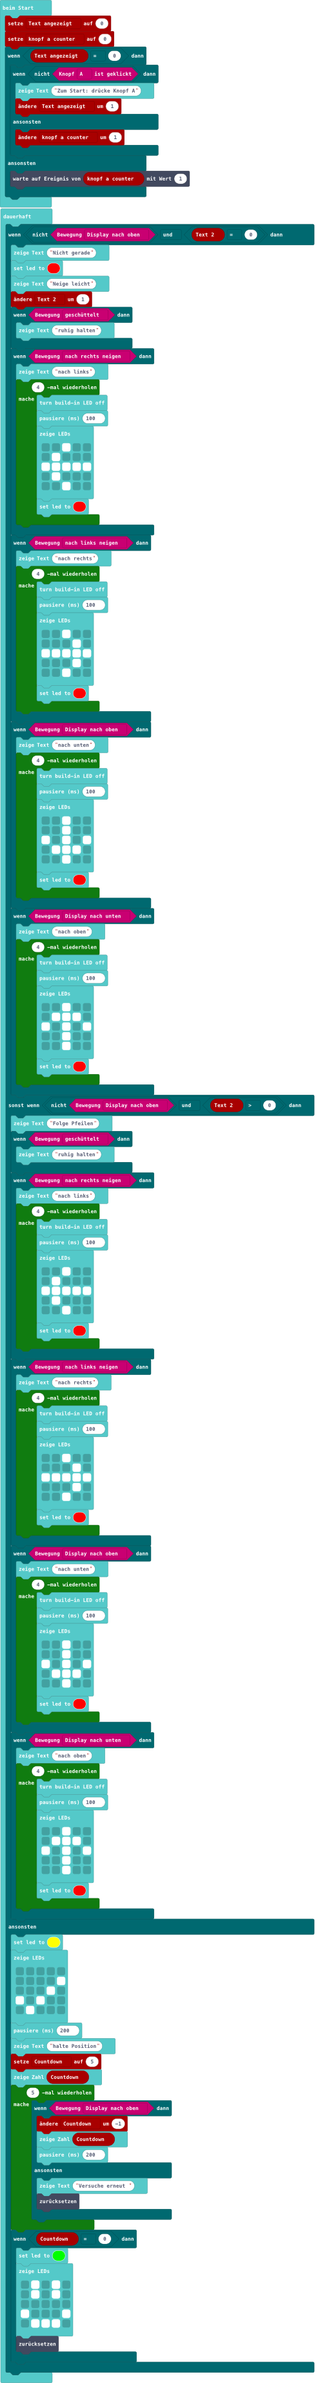
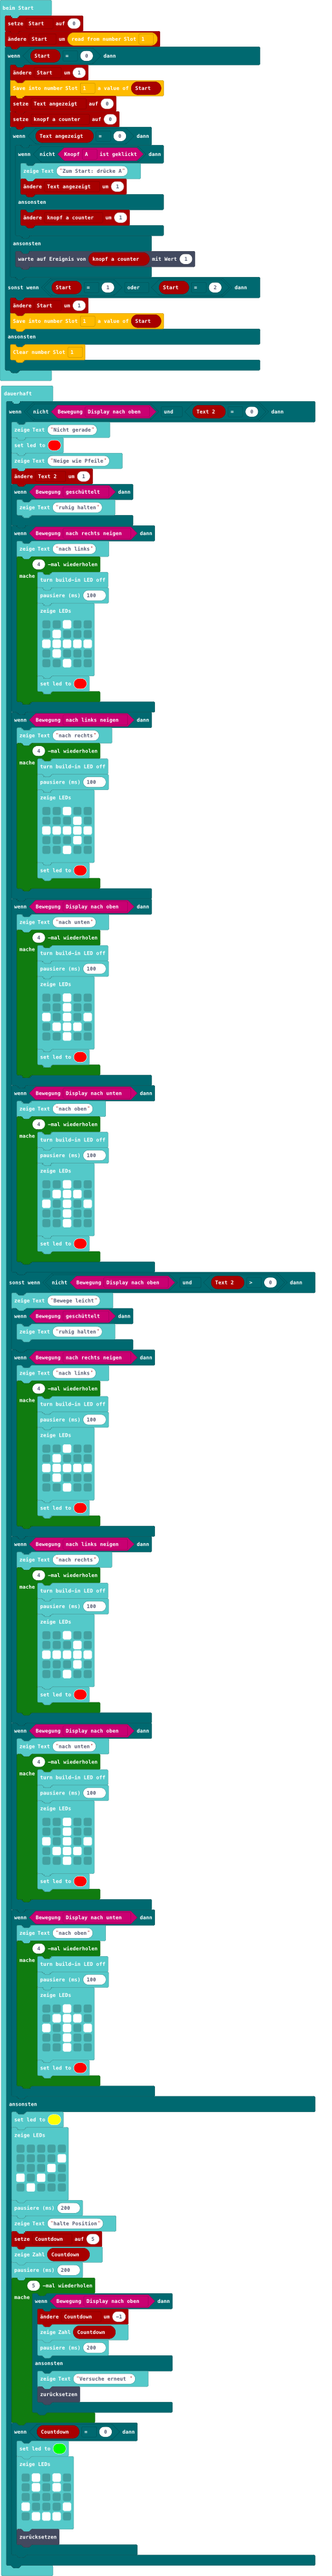
Aktualisiere pxt.json, main.blocks, main.ts

Changed region(s): [[0.0, 0.0, 0.9669, 1.0]]

diff --git a/main.ts b/main.ts
@@ -1,22 +1,35 @@
 let Countdown = 0
 let Text_2 = 0
-let Text_angezeigt = 0
 let knopf_a_counter = 0
-if (Text_angezeigt == 0) {
-    if (!(input.buttonIsPressed(Button.A))) {
-        basic.showString("Zum Start: drücke Knopf A")
-        Text_angezeigt += 1
+let Text_angezeigt = 0
+let Start = 0
+Start += storage.getNumber(StorageSlots.s1)
+if (Start == 0) {
+    Start += 1
+    storage.putNumber(StorageSlots.s1, Start)
+    Text_angezeigt = 0
+    knopf_a_counter = 0
+    if (Text_angezeigt == 0) {
+        if (!(input.buttonIsPressed(Button.A))) {
+            basic.showString("Zum Start: drücke A")
+            Text_angezeigt += 1
+        } else {
+            knopf_a_counter += 1
+        }
     } else {
-        knopf_a_counter += 1
+        control.waitForEvent(knopf_a_counter, 1)
     }
+} else if (Start == 1 || Start == 2) {
+    Start += 1
+    storage.putNumber(StorageSlots.s1, Start)
 } else {
-    control.waitForEvent(knopf_a_counter, 1)
+    storage.removeNumber(StorageSlots.s1)
 }
 basic.forever(function () {
     if (!(input.isGesture(Gesture.ScreenUp)) && Text_2 == 0) {
         basic.showString("Nicht gerade")
         basic.setLedColor(0xff0000)
-        basic.showString("Neige leicht")
+        basic.showString("Neige wie Pfeile")
         Text_2 += 1
         if (input.isGesture(Gesture.Shake)) {
             basic.showString("ruhig halten")
@@ -82,7 +95,7 @@ basic.forever(function () {
             }
         }
     } else if (!(input.isGesture(Gesture.ScreenUp)) && Text_2 > 0) {
-        basic.showString("Folge Pfeilen")
+        basic.showString("Bewege leicht")
         if (input.isGesture(Gesture.Shake)) {
             basic.showString("ruhig halten")
         }
@@ -159,6 +172,7 @@ basic.forever(function () {
         basic.showString("halte Position")
         Countdown = 5
         basic.showNumber(Countdown)
+        basic.pause(200)
         for (let index = 0; index < 5; index++) {
             if (input.isGesture(Gesture.ScreenUp)) {
                 Countdown += -1
